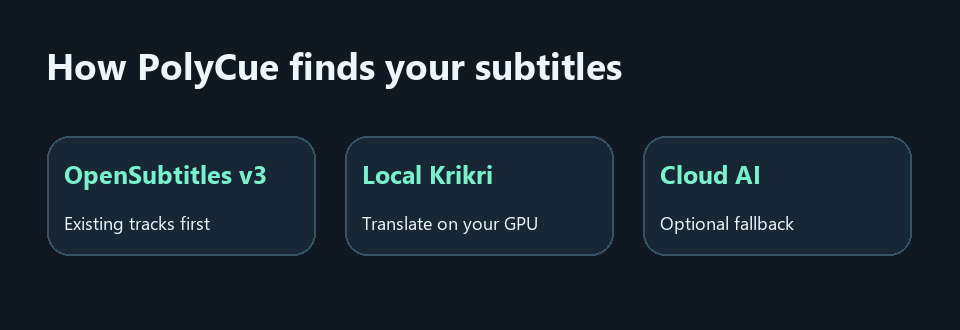
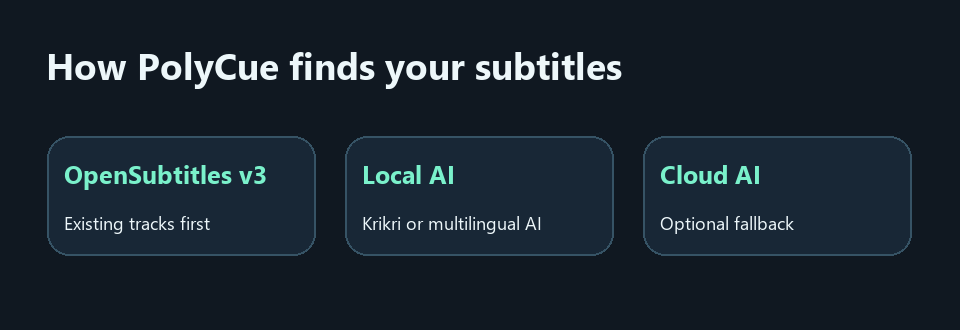
Choose multilingual local models for non-Greek subtitles

Changed region(s): [[0.375, 0.6364, 0.5625, 0.697], [0.4375, 0.4848, 0.5312, 0.5758]]

diff --git a/public/configure.html b/public/configure.html
@@ -87,9 +87,17 @@
     </section>
     <section>
       <h2>AI translation backup</h2>
-      <label for="localBaseUrl">Local Krikri API URL (optional)</label>
+      <div id="localModelWrap">
+      <label for="localBaseUrl">Local model API URL (optional)</label>
       <input id="localBaseUrl" placeholder="http://gpu-pc.lan:1234/v1">
-      <div class="hint"><a href="https://huggingface.co/ilsp/Llama-Krikri-8B-Instruct-GGUF/resolve/main/llama-krikri-8b-instruct-q4_k_m.gguf?download=true" target="_blank" rel="noopener noreferrer">Download Krikri Q4_K_M (5.04 GB)</a> and load it on your model server. If you also configure a cloud provider, PolyCue tries Krikri first.</div>
+      <label for="localModel">Local model ID (optional override)</label>
+      <input id="localModel" placeholder="Model ID from your local server">
+      <div class="hint" id="localModelHint">
+        <a href="https://huggingface.co/ilsp/Llama-Krikri-8B-Instruct-GGUF/resolve/main/llama-krikri-8b-instruct-q4_k_m.gguf?download=true" target="_blank" rel="noopener noreferrer">Download Krikri Q4_K_M for Greek</a>
+        · <a href="https://huggingface.co/Qwen/Qwen2.5-7B-Instruct-GGUF" target="_blank" rel="noopener noreferrer">Download Qwen2.5-7B-Instruct for more languages</a>.
+        Enter the exact model ID shown by your local server, or leave the default shown above. PolyCue tries the local model before the cloud provider.
+      </div>
+      </div>
       <label for="provider">Provider</label>
       <select id="provider"></select>
 
@@ -288,14 +296,20 @@
     openai: { switchTo: 'chatgpt', text: 'Have ChatGPT Plus or Pro? Sign in with ChatGPT instead of paying for an API key.', button: 'Switch to "Sign in with ChatGPT"' },
   };
 
+  function suggestedLocalModel() {
+    return $('targetLang').value === 'ell' ? B.localModels.greek : B.localModels.multilingual;
+  }
+
   function onProvider(initial) {
     const p = B.providers[$('provider').value];
     const showProvider = $('provider').value !== 'native';
     $('modelWrap').style.display = showProvider ? '' : 'none';
-    if (!initial || !$('model').value) $('model').value = p.defaultModel;
+    $('localModelWrap').style.display = $('provider').value === 'custom' ? 'none' : '';
+    const defaultModel = $('provider').value === 'custom' ? suggestedLocalModel() : p.defaultModel;
+    if (!initial || !$('model').value) $('model').value = defaultModel;
     fillModels(p.models);
     if (!initial || !$('baseUrl').value) $('baseUrl').value = p.baseUrl;
-    $('model').placeholder = p.defaultModel;
+    $('model').placeholder = defaultModel;
     $('keyHint').innerHTML = p.keyUrl ? `Get a key at <a href="${p.keyUrl}" target="_blank" rel="noopener">${new URL(p.keyUrl).host}</a>. It is stored encrypted inside your addon URL — not on this page.` : 'Leave empty if your endpoint needs no key.';
     $('baseUrlWrap').style.display = !showProvider || p.auth === 'chatgpt' ? 'none' : '';
     const alt = ALT_SIGNIN[$('provider').value];
@@ -343,6 +357,14 @@
   $('gptRedirect').textContent = B.chatgptRedirect;
   $('prioritySources').value = (c.prioritySources || []).join('\n');
   $('localBaseUrl').value = c.localBaseUrl || '';
+  $('localModel').value = c.localModel || '';
+  $('localModel').placeholder = suggestedLocalModel();
+  $('targetLang').addEventListener('change', () => {
+    $('localModel').placeholder = suggestedLocalModel();
+    if ($('provider').value === 'custom' && Object.values(B.localModels).includes($('model').value)) {
+      $('model').value = suggestedLocalModel();
+    }
+  });
   $('sources').value = (c.sources || []).join('\n');
   $('maxCandidates').value = c.maxCandidates;
   $('batchSize').value = c.batchSize || '';
@@ -370,6 +392,7 @@
       credId,
       prioritySources: $('prioritySources').value,
       localBaseUrl: $('localBaseUrl').value.trim(),
+      localModel: $('localModel').value.trim(),
       sources: $('sources').value.split(/\n+/).map((s) => s.trim()).filter(Boolean),
       maxCandidates: +$('maxCandidates').value,
       batchSize: +$('batchSize').value || 0,

diff --git a/src/config.js b/src/config.js
@@ -25,6 +25,19 @@ const KEY = loadSecret();
 
 const b64url = (buf) => Buffer.from(buf).toString('base64url');
 
+const LOCAL_MODELS = {
+  greek: PROVIDERS.custom.defaultModel,
+  multilingual: 'qwen2.5-7b-instruct',
+};
+
+function localModelFor(cfg) {
+  return cfg.localModel || (cfg.targetLang === 'ell' ? LOCAL_MODELS.greek : LOCAL_MODELS.multilingual);
+}
+
+function customBaseUrl() {
+  return DEFAULTS.localBaseUrl || PROVIDERS.custom.baseUrl;
+}
+
 const DEFAULTS = {
   provider: 'native',
   apiKey: '',
@@ -34,6 +47,7 @@ const DEFAULTS = {
   sources: [OPEN_SUBTITLES_URL],
   prioritySources: sourceList(process.env.PRIORITY_SUBTITLE_SOURCES),
   localBaseUrl: endpoint(process.env.LOCAL_LLM_URL),
+  localModel: '',
   maxCandidates: 1,
   autoTranslate: true,
   batchSize: 0, // 0 = automatic (see effectiveLimits)
@@ -78,16 +92,13 @@ function normalizeConfig(input = {}) {
   if (!Object.hasOwn(PROVIDERS, c.provider)) c.provider = DEFAULTS.provider;
   const p = PROVIDERS[c.provider];
   c.apiKey = String(c.apiKey || '').trim();
-  c.model = String(c.model || '').trim() || p.defaultModel;
-  c.baseUrl = String(c.baseUrl || '').trim().replace(/\/+$/, '') || p.baseUrl;
-  if (c.provider === 'custom' && DEFAULTS.localBaseUrl) {
-    c.baseUrl = DEFAULTS.localBaseUrl;
-    c.model = p.defaultModel;
-    c.apiKey = '';
-  }
   c.localBaseUrl = endpoint(c.localBaseUrl);
+  c.localModel = String(c.localModel || '').trim().slice(0, 200);
   c.prioritySources = sourceList(c.prioritySources);
   c.targetLang = languageCode(c.targetLang) || DEFAULTS.targetLang;
+  const custom = c.provider === 'custom';
+  c.baseUrl = endpoint(c.baseUrl) || (custom ? customBaseUrl() : p.baseUrl);
+  c.model = String(c.model || '').trim() || (custom ? localModelFor(c) : p.defaultModel);
   let sources = Array.isArray(c.sources) ? c.sources : String(c.sources || '').split(/[\n,]+/);
   sources = sources.map(normalizeSourceUrl).filter((s) => /^https?:\/\//i.test(s));
   c.sources = sources.length ? [...new Set(sources)] : DEFAULTS.sources;
@@ -120,8 +131,8 @@ function encodeConfig(obj) {
   const p = PROVIDERS[cfg.provider];
   const compact = { v: 1 };
   for (const [k, v] of Object.entries(cfg)) {
-    if (k === 'model' && v === p.defaultModel) continue;
-    if (k === 'baseUrl' && v === p.baseUrl) continue;
+    if (k === 'model' && v === (cfg.provider === 'custom' ? localModelFor(cfg) : p.defaultModel)) continue;
+    if (k === 'baseUrl' && v === (cfg.provider === 'custom' ? customBaseUrl() : p.baseUrl)) continue;
     if (k !== 'provider' && JSON.stringify(v) === JSON.stringify(DEFAULTS[k])) continue;
     compact[k] = v;
   }
@@ -163,4 +174,4 @@ function sign(str) {
   return crypto.createHmac('sha256', KEY).update(str).digest('base64url').slice(0, 22);
 }
 
-module.exports = { DATA_DIR, DEFAULTS, OPEN_SUBTITLES_URL, canTranslate, normalizeConfig, encodeConfig, decodeConfig, sign, b64url, effectiveLimits };
+module.exports = { DATA_DIR, DEFAULTS, OPEN_SUBTITLES_URL, LOCAL_MODELS, localModelFor, canTranslate, normalizeConfig, encodeConfig, decodeConfig, sign, b64url, effectiveLimits };

diff --git a/server.js b/server.js
@@ -5,7 +5,7 @@ const http = require('http');
 const fs = require('fs');
 const path = require('path');
 const { PROVIDERS, LANGUAGES, listModels } = require('./src/providers');
-const { DEFAULTS, canTranslate, normalizeConfig, encodeConfig, decodeConfig, sign, b64url } = require('./src/config');
+const { DEFAULTS, LOCAL_MODELS, localModelFor, canTranslate, normalizeConfig, encodeConfig, decodeConfig, sign, b64url } = require('./src/config');
 const { getOrStartJob, renderJob, translateLines, status, openingReady, etaMs } = require('./src/translator');
 const { selectSubtitles } = require('./src/select');
 const { alignmentFor, isNoop, retimeCues, describeFix } = require('./src/sync');
@@ -106,6 +106,7 @@ function renderPage(cfg) {
     credential: cfg && cfg.credId ? auth.credSummary(cfg.credId) : null,
     chatgptRedirect: auth.CHATGPT_REDIRECT,
     languages: LANGUAGES,
+    localModels: LOCAL_MODELS,
     passwordRequired: !!CONFIG_PASSWORD,
     links: { home: PUBLIC_URL || null, external: EXTERNAL_URL || null },
     version: pkg.version,
@@ -329,12 +330,12 @@ async function handleApi(req, res, action) {
     }
     if (action === 'models') {
       const cfg = normalizeConfig(body.config || {});
-      if (cfg.provider === 'native') return send(res, 200, { models: cfg.localBaseUrl ? [PROVIDERS.custom.defaultModel] : [] });
+      if (cfg.provider === 'native') return send(res, 200, { models: cfg.localBaseUrl ? [localModelFor(cfg)] : [] });
       return send(res, 200, { models: await listModels(cfg) });
     }
     if (action === 'test') {
       const cfg = normalizeConfig(body.config || {});
-      if (!canTranslate(cfg)) throw new Error('Set a local Krikri endpoint or choose a cloud provider and a non-English target language first');
+      if (!canTranslate(cfg)) throw new Error('Set a local model endpoint or choose a cloud provider and a non-English target language first');
       const started = Date.now();
       const out = await translateLines(
         { 1: "Where were you last night? I've been calling you for hours!", 2: '<i>Come on, we have to go.</i>' },

diff --git a/test/addon.test.js b/test/addon.test.js
@@ -167,13 +167,13 @@ test('French installation returns built-in OpenSubtitles tracks without credenti
   assert.equal(mock.state.chatCalls, calls);
 });
 
-test('French backup translates locally first and falls back to cloud when needed', async () => {
+test('French backup supports a multilingual default, a custom local model, and cloud fallback', async () => {
   const id = 'tt0000202';
   mock.state.listings[id] = [{ file: '-english', lang: 'eng' }, { file: '-french', lang: 'fre' }];
   const local = await startMockProviders();
   const cloud = await startMockProviders();
   try {
-    local.state.localModel = true;
+    local.state.localModel = 'qwen2.5-7b-instruct';
     const config = {
       provider: 'openai', apiKey: 'cloud-key', targetLang: 'fr', model: 'cloud-model',
       localBaseUrl: `${local.base}/v1`, baseUrl: `${cloud.base}/v1`,
@@ -185,10 +185,14 @@ test('French backup translates locally first and falls back to cloud when needed
     assert.equal(local.state.chatCalls, 0);
     assert.equal(cloud.state.chatCalls, 0);
     await (await fetch(subtitles[1].url)).text();
+    assert.equal(local.state.chatBodies[0].model, 'qwen2.5-7b-instruct');
     assert.match(local.state.chatBodies[0].messages[0].content, /spoken French/);
+    local.state.localModel = 'my-multilingual-model';
+    assert.equal((await api(addon.base, 'test', { config: { ...config, localModel: 'my-multilingual-model' } })).status, 200);
+    assert.equal(local.state.chatBodies.at(-1).model, 'my-multilingual-model');
     assert.equal(cloud.state.chatCalls, 0);
     local.state.rejectChat = true;
-    assert.equal((await api(addon.base, 'test', { config })).status, 200);
+    assert.equal((await api(addon.base, 'test', { config: { ...config, localModel: 'my-multilingual-model' } })).status, 200);
     assert.match(cloud.state.chatBodies[0].messages[0].content, /spoken French/);
   } finally {
     await local.close();

diff --git a/src/translator.js b/src/translator.js
@@ -5,10 +5,10 @@
 const crypto = require('crypto');
 const fs = require('fs');
 const path = require('path');
-const { chat, LANGUAGES, PROVIDERS, localModelAvailable } = require('./providers');
+const { chat, LANGUAGES, localModelAvailable } = require('./providers');
 const { toSrt } = require('./subtitles');
 const { downloadCues } = require('./sync');
-const { DATA_DIR, effectiveLimits } = require('./config');
+const { DATA_DIR, effectiveLimits, localModelFor } = require('./config');
 
 const CACHE_DIR = path.join(DATA_DIR, 'cache');
 const CACHE_DAYS = parseFloat(process.env.CACHE_DAYS || '30');
@@ -16,9 +16,13 @@ const MAX_BATCH_CHARS = 6000;
 const jobs = new Map();
 
 function jobKey(srcUrl, cfg) {
+  const key = [srcUrl, cfg.provider, cfg.model, cfg.targetLang, cfg.instructions];
+  if (cfg.localBaseUrl && cfg.provider !== 'custom' && (cfg.targetLang !== 'ell' || cfg.localModel)) {
+    key.push(localModelFor(cfg));
+  }
   return crypto
     .createHash('sha256')
-    .update([srcUrl, cfg.provider, cfg.model, cfg.targetLang, cfg.instructions].join('|'))
+    .update(key.join('|'))
     .digest('hex')
     .slice(0, 32);
 }
@@ -84,7 +88,7 @@ async function translateLines(lines, context, cfg) {
     const local = {
       ...cfg,
       provider: 'custom',
-      model: PROVIDERS.custom.defaultModel,
+      model: localModelFor(cfg),
       baseUrl: cfg.localBaseUrl,
       apiKey: '',
       credId: '',
@@ -103,7 +107,7 @@ async function translateLines(lines, context, cfg) {
       releaseSlot(poolKey);
     }
   }
-  if (cfg.provider === 'native') throw new Error('Local Krikri is unavailable and no cloud provider is configured');
+  if (cfg.provider === 'native') throw new Error('The selected local model is unavailable and no cloud provider is configured');
   return translate(cfg);
 }
 

diff --git a/test/helpers/mock-providers.js b/test/helpers/mock-providers.js
@@ -126,7 +126,7 @@ function startMockProviders({ lines = 120, llmDelayMs = 30 } = {}) {
         }
       }
       if (p === '/v1/models' && state.localModel) {
-        return json(200, { data: [{ id: 'llama-krikri-8b-instruct' }] });
+        return json(200, { data: [{ id: typeof state.localModel === 'string' ? state.localModel : 'llama-krikri-8b-instruct' }] });
       }
       if (p === '/v1/models') return json(200, { data: [{ id: 'gpt-6-luna', visibility: 'list' }, { id: 'gpt-6-sol', visibility: 'list' }, { id: 'internal-x', visibility: 'hidden' }] });
       if (p === '/v1/responses') {

diff --git a/src/providers.js b/src/providers.js
@@ -6,7 +6,7 @@ const { LANGUAGES } = require('./languages');
 
 const PROVIDERS = {
   native: {
-    label: 'OpenSubtitles with optional local Krikri',
+    label: 'OpenSubtitles with optional local AI',
     type: 'native',
     baseUrl: '',
     defaultModel: '',

diff --git a/README.md b/README.md
@@ -11,13 +11,13 @@ PolyCue AI gives Stremio a single subtitle addon with **OpenSubtitles v3 built i
 ## One install. Three ways to get the track.
 
 1. **OpenSubtitles v3 first.** PolyCue lists the available tracks in your selected language. A separate OpenSubtitles addon is optional.
-2. **Local Krikri next.** If you configure Llama-Krikri-8B-Instruct, PolyCue tries it first for AI translation, with thinking off. Local inference uses no cloud quota. [Download the official Q4_K_M GGUF (5.04 GB)](https://huggingface.co/ilsp/Llama-Krikri-8B-Instruct-GGUF/resolve/main/llama-krikri-8b-instruct-q4_k_m.gguf?download=true).
-3. **Cloud when needed.** Set a cloud API provider to take over when the local model is unavailable or fails. If OpenSubtitles has a track, the AI backup waits until your player loads it.
+2. **Local AI next.** PolyCue defaults to Krikri for Greek and Qwen2.5-7B-Instruct for other languages. Set a different model ID if your local server uses one. Local inference uses no cloud quota. [Download the official Krikri Q4_K_M GGUF (5.04 GB)](https://huggingface.co/ilsp/Llama-Krikri-8B-Instruct-GGUF/resolve/main/llama-krikri-8b-instruct-q4_k_m.gguf?download=true) · [Download Qwen2.5-7B-Instruct GGUF](https://huggingface.co/Qwen/Qwen2.5-7B-Instruct-GGUF).
+3. **Cloud when needed.** Set a cloud API provider to take over when the selected local model is unavailable or fails. If OpenSubtitles has a track, the AI backup waits until your player loads it.
 
-<p align="center"><img src="docs/images/polycue-order.png" alt="OpenSubtitles v3 first, then local Krikri AI, then optional cloud AI." width="960"></p>
+<p align="center"><img src="docs/images/polycue-order.png" alt="OpenSubtitles v3 first, then local AI, then optional cloud AI." width="960"></p>
 
 **Built for real releases.** PolyCue checks the English source against the video release, can correct supported timing issues, and caches finished translations for rewatching.
 
-**Start with OpenSubtitles alone.** It needs no AI account. Translation requires a usable English subtitle file, and language coverage and quality depend on the source and model. Krikri is tuned for Greek. For other languages, compare the test translation with your chosen cloud model.
+**Start with OpenSubtitles alone.** It needs no AI account. Translation requires a usable English subtitle file, and language coverage and quality depend on the source and model. Krikri is tuned for Greek. For other languages, use the test translation to compare your multilingual local and cloud options.
 
 PolyCue AI is an independent, MIT-licensed Stremio addon. Cloud providers may charge for usage. The [AIOStreams standalone install](https://github.com/jfle/aio-streams-subtitles-greek/tree/aiostreams-standalone) lives on its own branch.

diff --git a/INSTALL.md b/INSTALL.md
@@ -13,7 +13,7 @@ The installer starts the `polycue-ai` systemd service, stores the app under `/op
 ## Choose your language and backup
 
 1. Open **/configure** and choose **Language to show in Stremio**.
-2. Leave the default provider for OpenSubtitles alone. Add a **Local Krikri API URL** for local AI, and optionally select a cloud provider for fallback. [Download the official Krikri Q4_K_M GGUF (5.04 GB)](https://huggingface.co/ilsp/Llama-Krikri-8B-Instruct-GGUF/resolve/main/llama-krikri-8b-instruct-q4_k_m.gguf?download=true) and load it in LM Studio or another GGUF-compatible runner. The local endpoint should expose the model as `llama-krikri-8b-instruct`.
+2. Leave the default provider for OpenSubtitles alone. Add a **Local model API URL** for local AI, and optionally select a cloud provider for fallback. [Download the official Krikri Q4_K_M GGUF (5.04 GB)](https://huggingface.co/ilsp/Llama-Krikri-8B-Instruct-GGUF/resolve/main/llama-krikri-8b-instruct-q4_k_m.gguf?download=true) and load it in LM Studio or another GGUF-compatible runner. The default model ID is `llama-krikri-8b-instruct` for Greek and `qwen2.5-7b-instruct` for other languages. [Download the official Qwen2.5-7B-Instruct GGUF](https://huggingface.co/Qwen/Qwen2.5-7B-Instruct-GGUF). If LM Studio, Ollama, or another runner lists a different model ID, enter its exact ID in **Local model ID**.
 3. Test translation if enabled, then generate the private install link and open it in Stremio. If you want PolyCue as your only OpenSubtitles source, disable the separate OpenSubtitles addon after verifying the new link.
 
 An AI backup is offered when PolyCue has translation configured and finds an English subtitle to translate. When OpenSubtitles already supplies the chosen language, the AI track is generated on demand. Set **Additional priority sources** only if you also use other subtitle addons.
